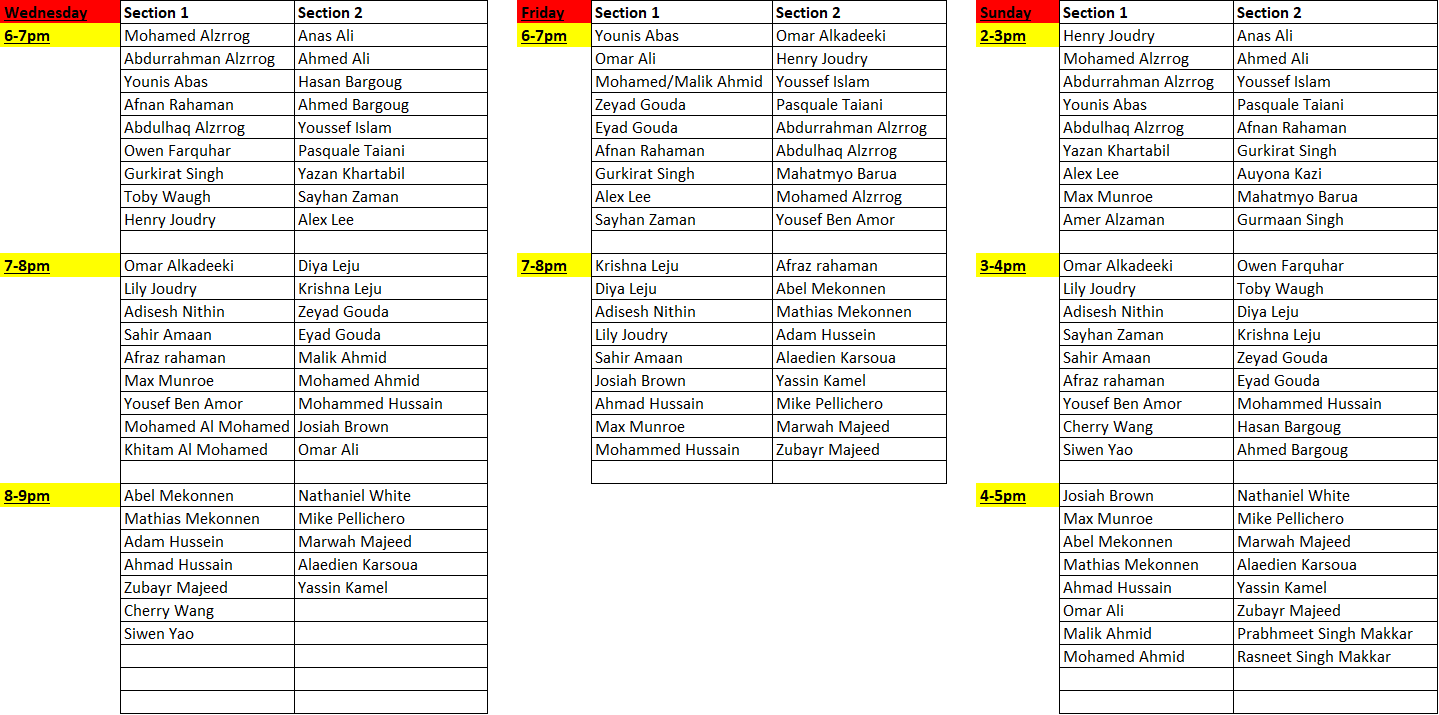
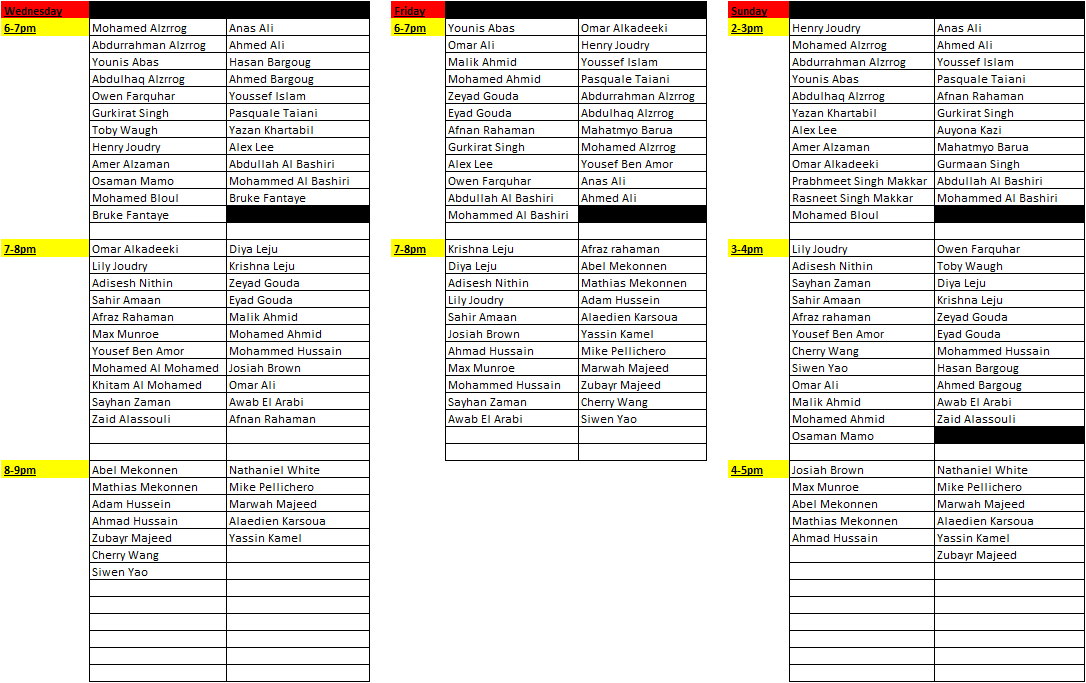
schedule updates

diff --git a/templates/scheduleprices.html b/templates/scheduleprices.html
@@ -13,24 +13,13 @@
     {% block content %}
 
           <div class="container"><br>
-            <h1><font size="+5"> Schedule and Fees</font size="+5"></h1><br><br>
-            <h3>Class Breakdown During Enhanced Restrictions</h3>
-            <p>
-              The below snapshot shows the current class allocations. If you have an issue with the timing, please contact Sean O'Neil directly (saoneil@live.com). The currently available time slots are as follows:<br><br>
-              <strong><u>Wednesday</u></strong> ||  <strong>8-9pm -- </strong>Section 1: 2 spots, Section 2: 4 spots <br>
-              <strong><u>Friday</u></strong> || No Available Spots <br>
-              <strong><u>Sunday</u></strong> || <strong>4-5pm -- </strong>Section 1: 1 spot, Section 2: 1 spot
-            </p>
-            <img src="{{url_for('static', filename='images/class_schedule.png')}}" width="1100" height="600"/><br><br><br><br><br><br>
-            
-
-
-
             <h3>Schedule</h3>
-            Below are the typical hours, please see above for the current class breakdown. <br>
-            <img src="{{url_for('static', filename='images/class_schedule_basic.JPG')}}" width="1100" height="400"/><br><br><br>
             <p>
-              The classes are held at St. Andrew's Community Center, 3380 Barnstead Lane, Halifax. We use the multipurpose room at the back of the building when entering through the main doors. Note that Barnstead Lane is only accessible from Bayers Road outbound by car.
+              Advanced students are welcome to attend lower-level classes. Students should not attend classes above their rank without prior approval from Sean. The classes will be taught according to the ranks described below, so it is important to attend the classes for your level as much as possible.
+            </p>
+            <img src="{{url_for('static', filename='images/class_schedule_basic.JPG')}}" width="725" height="300"/><br><br><br>
+            <p>
+              The classes are held at St. Andrew's Community Center, 3380 Barnstead Lane, Halifax. We use the multipurpose room at the back of the building when entering through the main doors. Note that Barnstead Lane is only accessible from Bayers Road outbound by car.<br><br>
               <img src="{{url_for('static', filename='images/mapofbuilding.JPG')}}" width="550" height="400"/>
             </p><br><br>
 

diff --git a/templates/provincialteam.html b/templates/provincialteam.html
@@ -15,18 +15,16 @@
 
         <div class="container"><br>
           <h1>Nova Scotia Provincial Taekwon-Do Team</h1><br>
-
           <h4>
             List of Upcoming Team Practices:
           </h4>
           <p>
             <ul>
               <li>
-                Feb 6th, 2022 (two sessions, 8am-10am, 10am-12pm) - Mackenzie Taekwon-Do (21 Glen Arbour Way, Hammonds Plains). Below is the current breakdown for the two sessions:<br>
-                <img src="{{url_for('static', filename='images/team_practice_breakdown.png')}}" width="300" height="275"/>
+                Feb 20th, 2022 (9am-12pm all team members) - Mackenzie Taekwon-Do (21 Glen Arbour Way, Hammonds Plains).
               </li><br>
               <li>
-                Feb 20th, 2022 (time/details TBA) - Mackenzie Taekwon-Do (21 Glen Arbour Way, Hammonds Plains).
+                March 5th, 2022 (time/location TBA) - only open to those attending the Nationals.
               </li>  
             </ul>
           </p><br><br>

diff --git a/templates/index.html b/templates/index.html
@@ -21,7 +21,7 @@
           <div class="container"><br><br>
             <center>
               <p style="color:red":>
-                <font size="+2"><u>IMORTANT UPDATE</u><br> We are restarting classes on Sunday, Feb 6th. Friday's classes have been cancelled by St. Andrew's due to the expected storm. Students are only permitted to attend the classes for which they have been scheduled. The current class and section breakdown can be found on the "Schedule and Fees" tab: <a class="nav-link active" href="/scheduleprices">Schedule and Fees</a>
+                <font size="+2"><u>IMORTANT UPDATE</u><br> Classes have returned to normal operation. Class times and rank breakdown can be found at this link: <a class="nav-link active" href="/scheduleprices">Schedule and Fees</a>
                 </font size="+2">
               </p>
             </center></p>

diff --git a/templates/upcomingevents.html b/templates/upcomingevents.html
@@ -21,8 +21,8 @@
         	<br>
           <h1>Club Announcements</h1>
           <ul.a {list-style-type: circle;}>
-            <li style="color:red":>
-              <font size="+2">We are restarting classes on Sunday, Feb 6th. Friday's classes have been cancelled by St. Andrew's due to the expected storm. Students are only permitted to attend the classes for which they have been scheduled. The current class and section breakdown can be found on the "Schedule and Fees" tab: <a class="nav-link active" href="/scheduleprices">Schedule and Fees</a>
+            <li>
+              <font size="+2">Classes have returned to normal operation. Class times and rank breakdown can be found at this link: <a class="nav-link active" href="/scheduleprices">Schedule and Fees</a>
               </font size="+2">
             </li>
           </ul.a><br><br><br>
